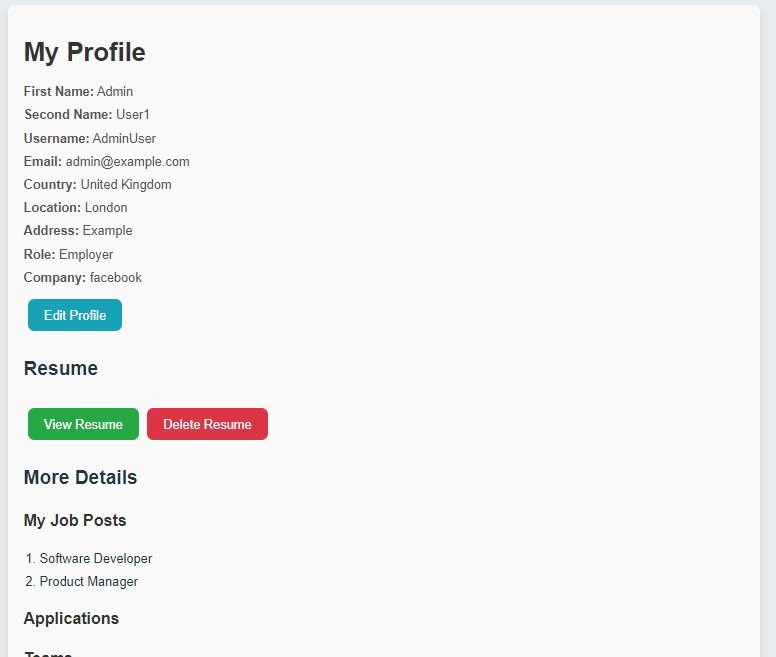
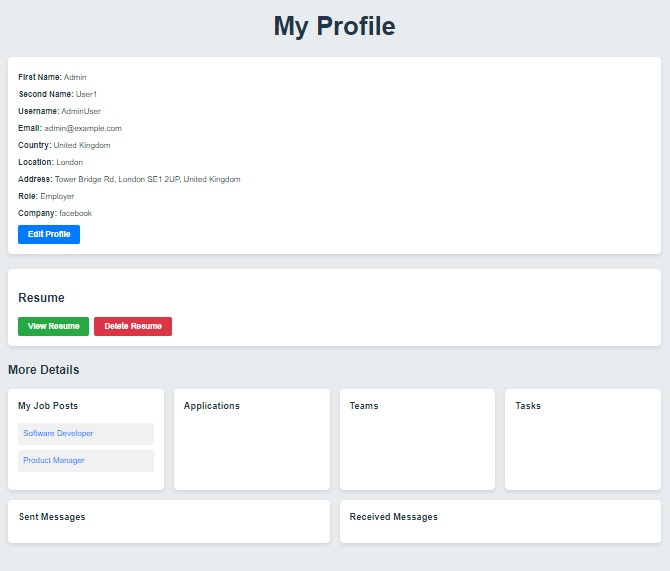
Updated the profile and Job Listing

diff --git a/frontend/src/pages/Profile/Profile.css b/frontend/src/pages/Profile/Profile.css
@@ -1,6 +1,6 @@
 .profile-container {
-  padding: 20px;
-  max-width: 1200px;
+  padding: 10px;
+  max-width: 100%;
   margin: 0 auto;
   font-family: Arial, sans-serif;
 }

diff --git a/frontend/README.md b/frontend/README.md
@@ -1,1 +1,54 @@
 # Frontend
+# Remote Work Management Application
+
+This is a comprehensive platform for managing remote work, featuring user authentication and CRUD operations for managing job listings and user profiles.
+
+![Home Page](./src/assets/Screenshot_Home.jpg)
+
+## Features
+
+- **User Authentication**: Secure login and registration with JWT.
+- **Dashboard**: Manage all remote work needs from a centralized dashboard.
+- **Job Listings**: View, search, and filter available job listings.
+- **Profile Management**: Manage user profiles and roles (employer/job seeker).
+
+## Technologies Used
+
+- React
+- JavaScript (ES6+)
+- CSS
+- Axios
+- React Router
+- Context API
+- Toastify
+
+## Getting Started
+
+To run the application locally:
+
+1. Clone this repository.
+2. Install dependencies using `npm install`.
+3. Start the development server using `npm start`.
+
+## Usage
+
+### Home Page
+When you first open the application, you'll be greeted with the Home Page.
+
+![Home Page](./src/assets/Screenshot_Home.jpg)
+
+### Register or Login
+If you're new to the platform, click on the "Get Started" button to register.
+
+![Register Page](./src/assets/Screenshot_Register.jpg)
+
+If you're already a user, click on the "Login" link to access your account.
+
+![Login Page](./src/assets/Screenshot_Login.jpg)
+
+### Dashboard
+Upon successful login, you'll be redirected to your dashboard where you can manage all your remote work needs.
+
+![Dashboard](./src/assets/Screenshot_Dashboard.jpg)
+
+
